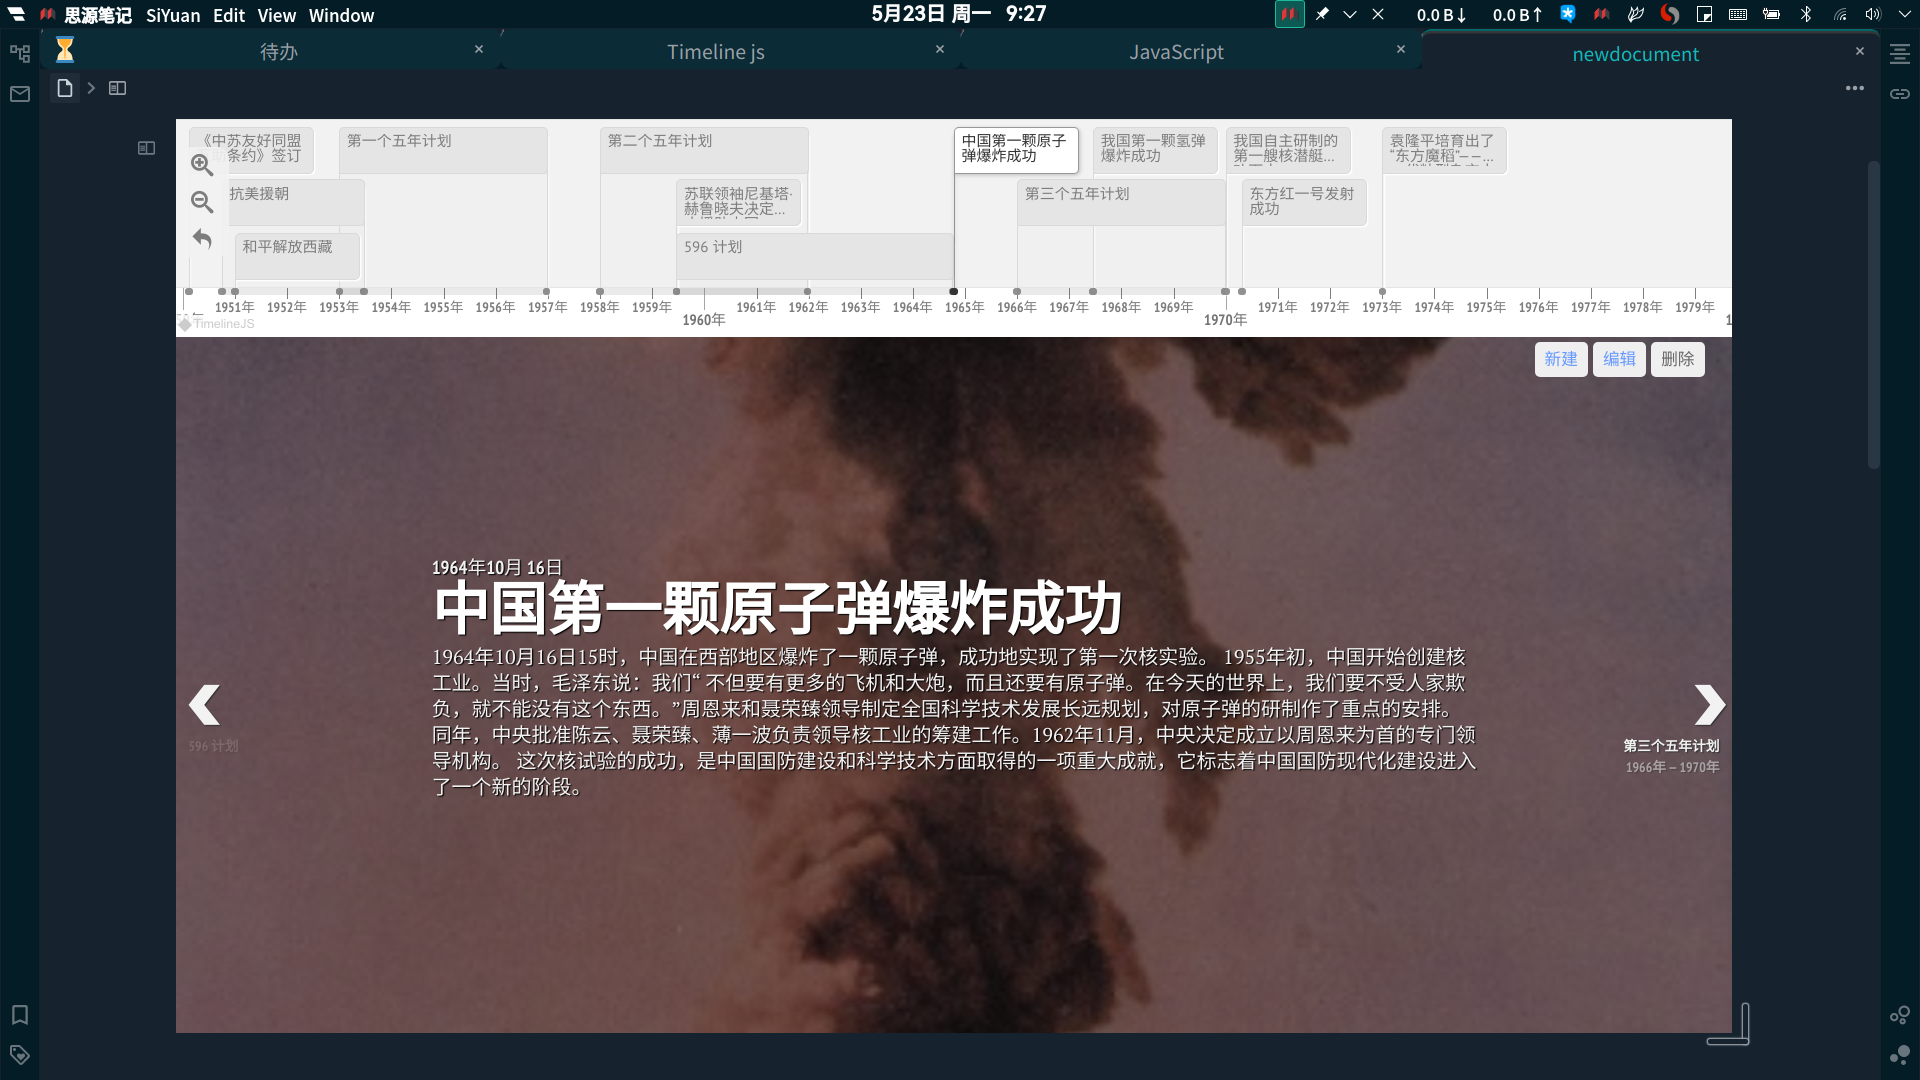
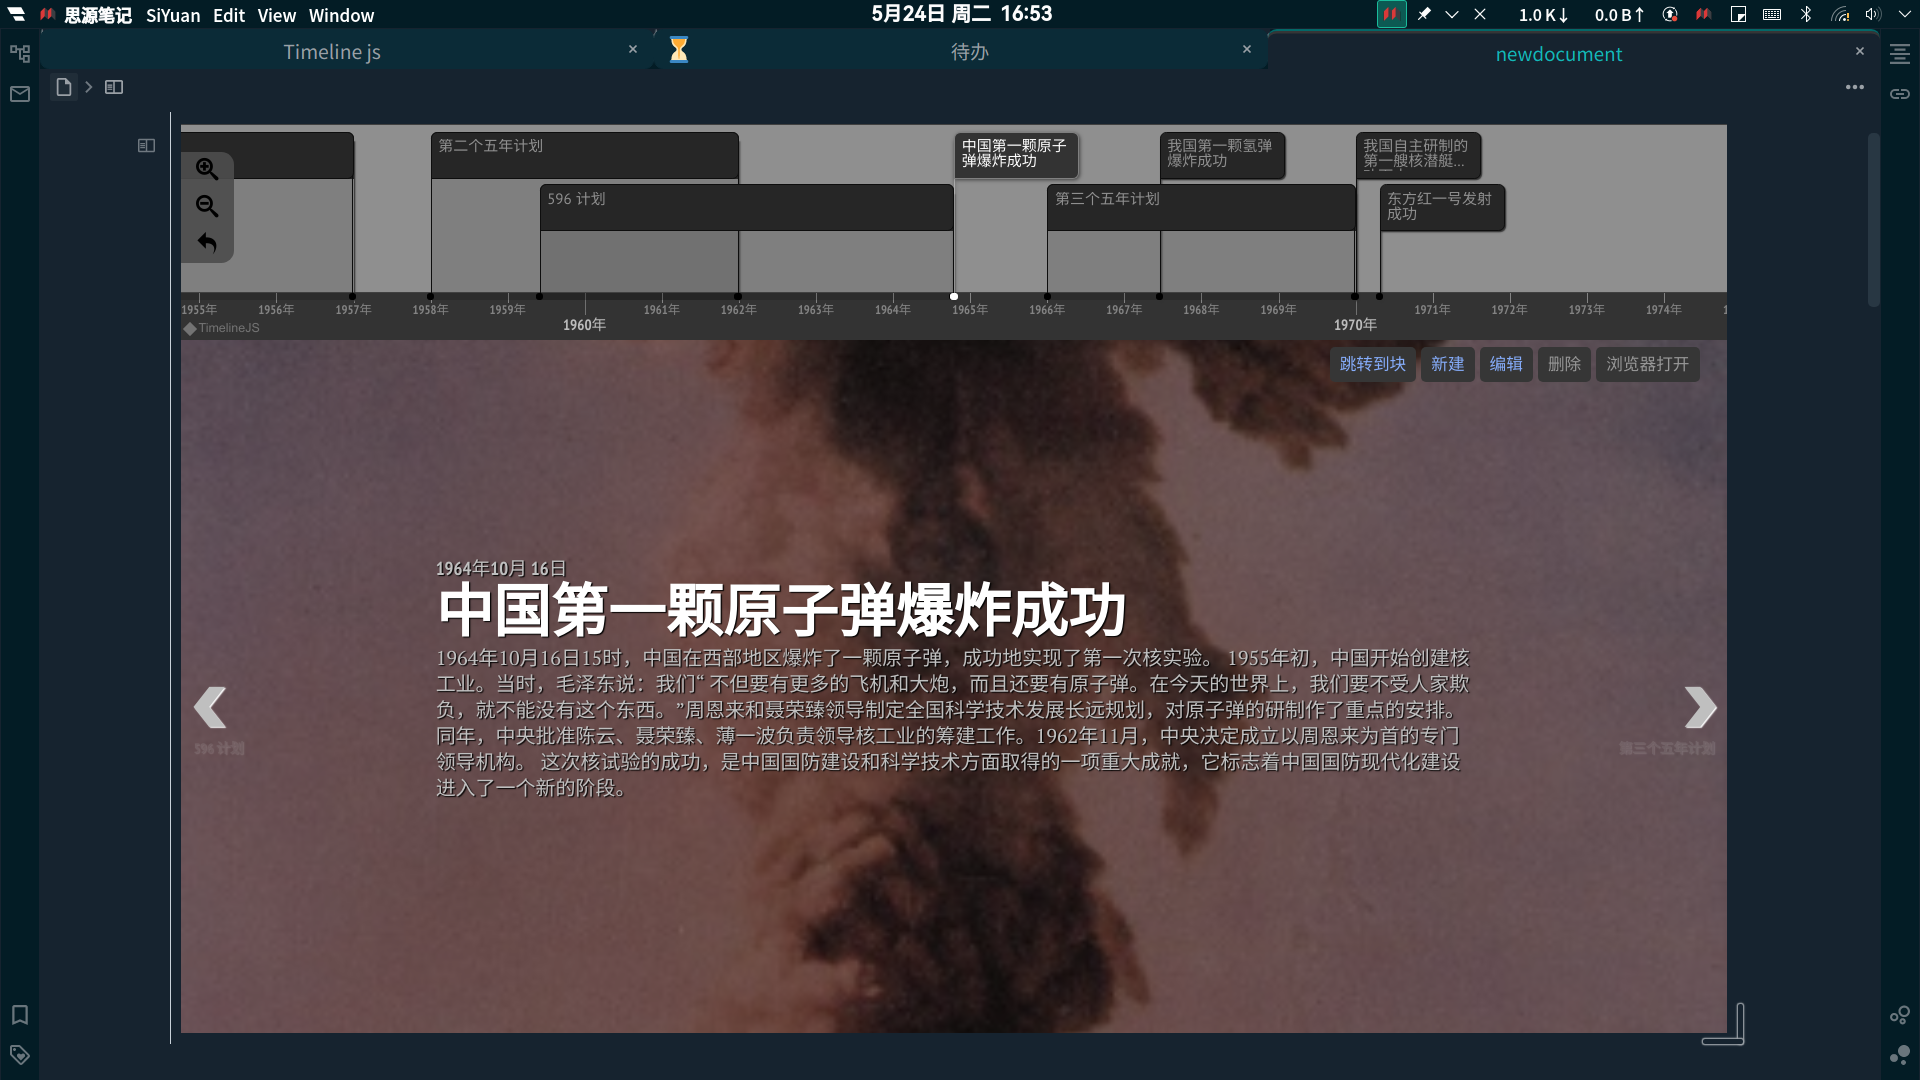
更新图片及README

diff --git a/README.md b/README.md
@@ -6,7 +6,7 @@
 
 ![](./preview.png)
 
-![](./images/period.png)
+![](./images/light.png)
 
 ## 使用说明
 
@@ -21,11 +21,14 @@
 * **时间线编辑操作：** 新建、编辑和删除
 
   * 新建：点击新建按钮可新建一个项目，其中开始日期和标题为必填项，结束日期、描述和背景图片为选填项。
-    若结束日期留空，则表示该项目为一个事件，否则表示一个时期。
-    描述为对该时间或时期的具体描述。
-    背景图片为该事件或时期对应幻灯片的背景，背景图片须填入图片的 url ，也可为思源的资源文件，格式为 `assets/xxx.jpg/png`。
+    * 若结束日期留空，则表示该项目为一个事件，否则表示一个时期。
+    * 描述为对该时间或时期的具体描述。
+      **标题与描述支持使用markdown语法插入网页链接**
+      **描述**支持插入**思源块超链接**,保存后在该页点击“**跳转到块**”按钮可**跳转到对应块**。
+    * 背景图片为该事件或时期对应幻灯片的背景，背景图片须填入图片的 url ，也可为思源的资源文件，格式为 `assets/xxx.jpg/png`。
 
     ![image.png](./images/edit.png)
+    ![image.png](./images/edit2.png)
   * 编辑：点击编辑按钮可编辑当前幻灯片所对应的事件或时期的内容。
   * 删除：点击编辑按钮可编辑当前幻灯片所对应的事件或时期，注意当时间轴上仅有一个事件或时期时无法删除，因为时间轴上至少要有一个项目。
 * **数据存储：** 时间线数据存储在挂件块的自定义属性中，建议将数据做个备份以防不测。
